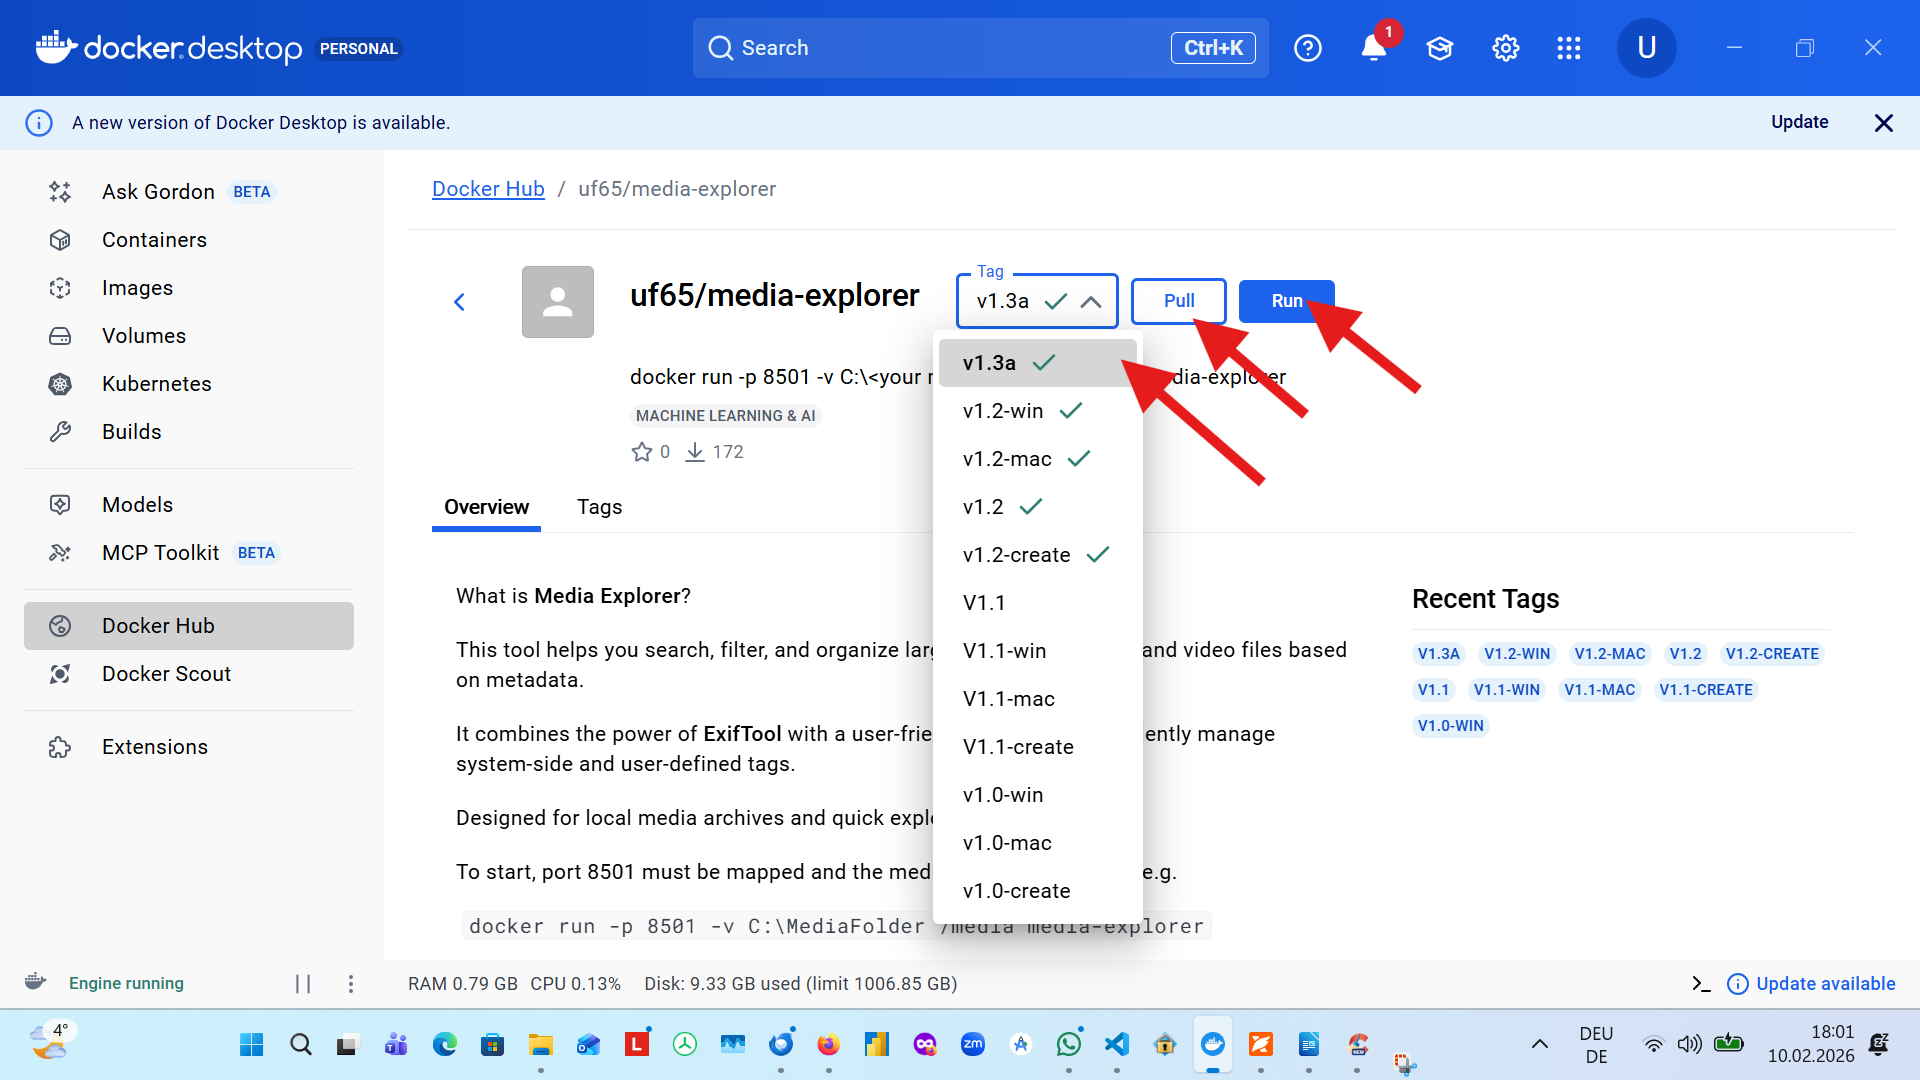
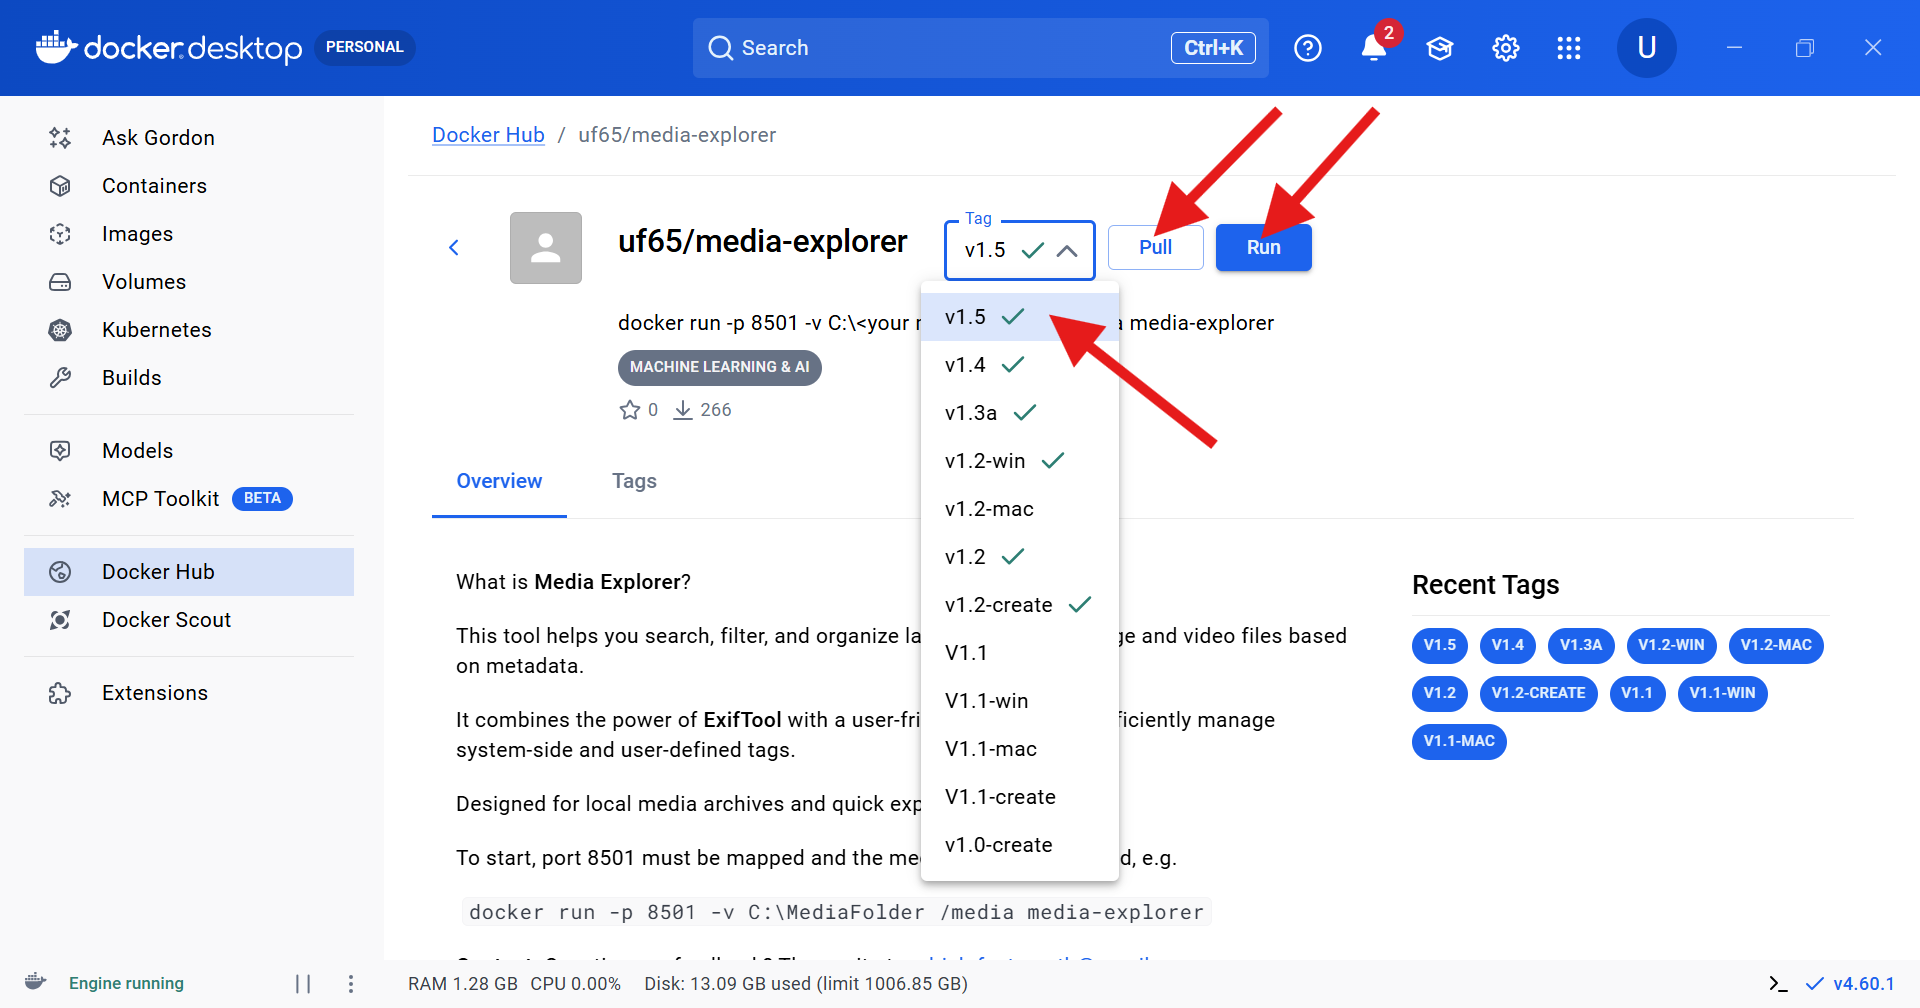
aktualisierte Screenshots

diff --git a/metia-explorer-web.py b/metia-explorer-web.py
@@ -89,9 +89,9 @@ Wenn du möchtest, kannst du auch gleich auf **Run** klicken, um den Metia-Explo
         """)
         st.image("assets/install_step3-3.png", use_container_width=True)
         st.markdown("""
-        Dass der Container im gezeigten Beispiel **cranky_dubinsky** heißt, hat nichts zu bedeuten. Bei dir kann irgendein anderer Name stehen, den sich die Docker Engine gerade ausgedacht hat.
+        Dass der Container im gezeigten Beispiel **xenodochial_nightingale** heißt, hat nichts zu bedeuten. Bei dir kann irgendein anderer Name stehen, den sich die Docker Engine gerade ausgedacht hat.
 
-        Ein letzter Klick noch auf die angezeigte URL, und der Metia-Explorer öffnet sich im Browser:
+        Ein letzter Klick noch auf die angezeigte **Local URL**, und der Metia-Explorer öffnet sich im Browser:
         """)
         st.image("assets/install_step3-4.png", use_container_width=True)
         st.markdown("""
